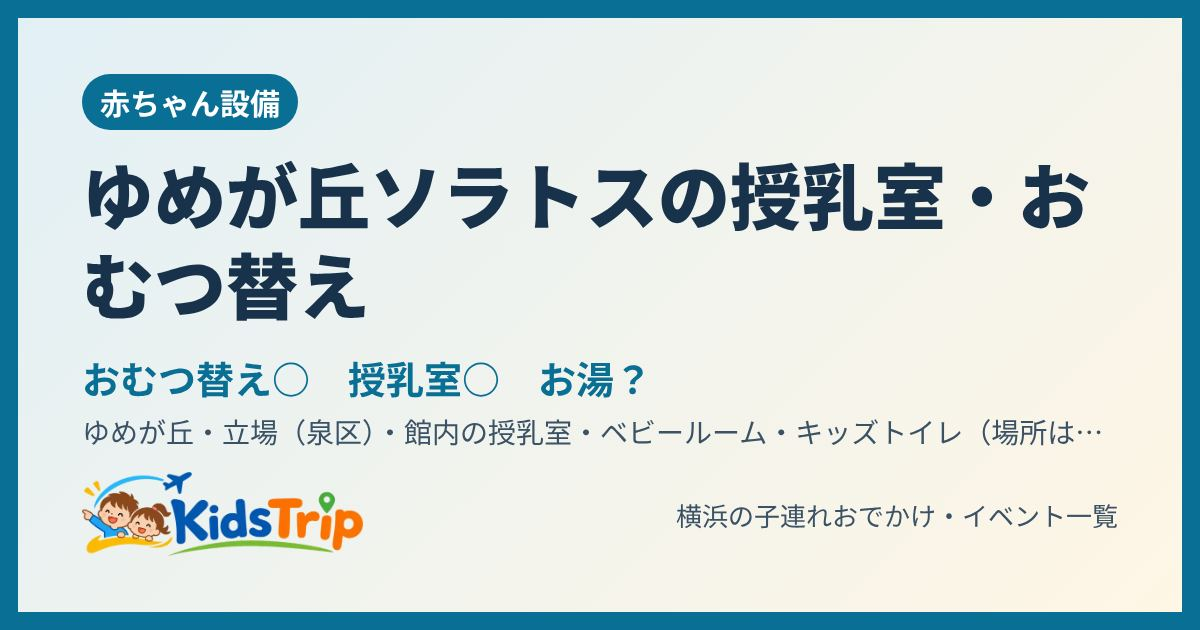
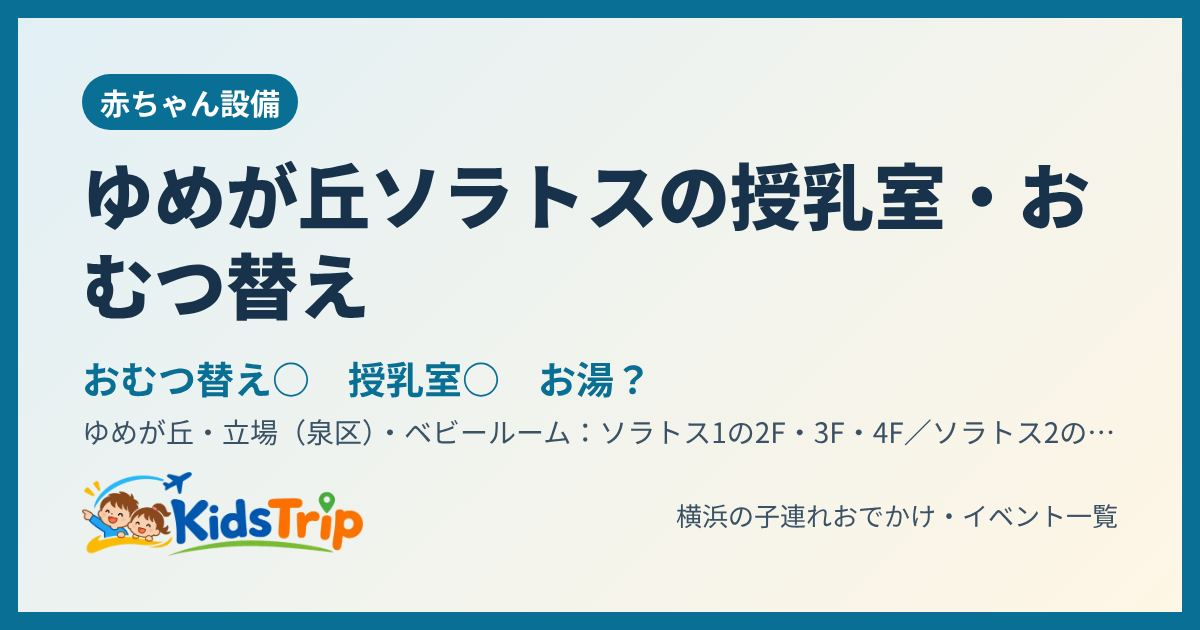
たまプラーザテラス（東急百貨店3Fベビー休憩室・電子レンジ）・ゆめが丘ソラトス（各棟のベビールーム）の授乳室を、いこーよから公式に差しかえ
Claude-Session: https://claude.ai/code/session_014AtJ2fHfJAqHs7WQwJHXLv

Changed region(s): [[0.3392, 0.6635, 0.925, 0.7238]]

diff --git a/spot/zvm9bi/index.html b/spot/zvm9bi/index.html
@@ -2,15 +2,14 @@
 <html lang="ja">
 <head>
 <meta charset="utf-8">
-<meta name="robots" content="noindex">
 <meta name="viewport" content="width=device-width, initial-scale=1">
-<title>たまプラーザ テラスの授乳室は何階？おむつ替え・お湯｜KidsTrip</title>
-<meta name="description" content="たまプラーザ テラス（たまプラーザ）の授乳室・おむつ替えの場所：ベビーテラス（おむつ替え・授乳）／1F プティマイン前に3歳まで向けのプレイスペース。おむつ替え・授乳室あり。">
+<title>たまプラーザ テラスの授乳室は何階？おむつ替え・お湯・電子レンジ｜KidsTrip</title>
+<meta name="description" content="たまプラーザ テラス（たまプラーザ）の授乳室・おむつ替えの場所：東急百貨店たまプラーザ店 3F ベビー休憩室（おむつ交換台・個室授乳室・調乳シンク・電子レンジ・身長計）。おむつ替え・授乳室・調乳のお湯・離乳食のレンジあり。">
 <link rel="canonical" href="https://kidstrip.jp/spot/zvm9bi/">
 <meta property="og:type" content="article">
 <meta property="og:site_name" content="KidsTrip">
-<meta property="og:title" content="たまプラーザ テラスの授乳室は何階？おむつ替え・お湯｜KidsTrip">
-<meta property="og:description" content="たまプラーザ テラス（たまプラーザ）の授乳室・おむつ替えの場所：ベビーテラス（おむつ替え・授乳）／1F プティマイン前に3歳まで向けのプレイスペース。おむつ替え・授乳室あり。">
+<meta property="og:title" content="たまプラーザ テラスの授乳室は何階？おむつ替え・お湯・電子レンジ｜KidsTrip">
+<meta property="og:description" content="たまプラーザ テラス（たまプラーザ）の授乳室・おむつ替えの場所：東急百貨店たまプラーザ店 3F ベビー休憩室（おむつ交換台・個室授乳室・調乳シンク・電子レンジ・身長計）。おむつ替え・授乳室・調乳のお湯・離乳食のレンジあり。">
 <meta property="og:url" content="https://kidstrip.jp/spot/zvm9bi/">
 <meta property="og:image" content="https://kidstrip.jp/og/spot-zvm9bi.jpg">
 <meta property="og:image:width" content="1200">
@@ -20,7 +19,7 @@
 <link rel="icon" href="../../img/favicon.png">
 <link rel="apple-touch-icon" href="../../img/apple-touch-icon.png">
 <script type="application/ld+json">{"@context": "https://schema.org", "@type": "BreadcrumbList", "itemListElement": [{"@type": "ListItem", "position": 1, "name": "トップ", "item": "https://kidstrip.jp/"}, {"@type": "ListItem", "position": 2, "name": "ごはん・おむつ", "item": "https://kidstrip.jp/#foodall"}, {"@type": "ListItem", "position": 3, "name": "たまプラーザ テラス"}]}</script>
-<script type="application/ld+json">{"@context": "https://schema.org", "@type": "Place", "name": "たまプラーザ テラス", "description": "たまプラーザ テラス（たまプラーザ）の授乳室・おむつ替えの場所：ベビーテラス（おむつ替え・授乳）／1F プティマイン前に3歳まで向けのプレイスペース。おむつ替え・授乳室あり。", "url": "https://kidstrip.jp/spot/zvm9bi/", "image": ["https://kidstrip.jp/og/spot-zvm9bi.jpg"], "address": {"@type": "PostalAddress", "addressLocality": "横浜市", "addressRegion": "神奈川県", "addressCountry": "JP"}, "amenityFeature": [{"@type": "LocationFeatureSpecification", "name": "おむつ替え", "value": true}, {"@type": "LocationFeatureSpecification", "name": "授乳室", "value": true}], "publicAccess": true, "sameAs": "https://iko-yo.net/facilities/6546", "hasMap": "https://www.google.com/maps/search/?api=1&query=たまプラーザ テラス"}</script>
+<script type="application/ld+json">{"@context": "https://schema.org", "@type": "Place", "name": "たまプラーザ テラス", "description": "たまプラーザ テラス（たまプラーザ）の授乳室・おむつ替えの場所：東急百貨店たまプラーザ店 3F ベビー休憩室（おむつ交換台・個室授乳室・調乳シンク・電子レンジ・身長計）。おむつ替え・授乳室・調乳のお湯・離乳食のレンジあり。", "url": "https://kidstrip.jp/spot/zvm9bi/", "image": ["https://kidstrip.jp/og/spot-zvm9bi.jpg"], "address": {"@type": "PostalAddress", "addressLocality": "横浜市", "addressRegion": "神奈川県", "addressCountry": "JP"}, "amenityFeature": [{"@type": "LocationFeatureSpecification", "name": "おむつ替え", "value": true}, {"@type": "LocationFeatureSpecification", "name": "授乳室", "value": true}, {"@type": "LocationFeatureSpecification", "name": "調乳のお湯", "value": true}, {"@type": "LocationFeatureSpecification", "name": "離乳食用の電子レンジ", "value": true}], "publicAccess": true, "sameAs": "https://www.tokyu-dept.co.jp/tama-plaza/service/index.html", "hasMap": "https://www.google.com/maps/search/?api=1&query=たまプラーザ テラス"}</script>
 <style>
 :root{--paper:#f8fafc;--card:#fff;--ink:#18222e;--muted:#5b6875;--line:#dde3e9;--accent:#0a6f95;--accent-soft:#e2f0f6;--ok:#2e7d4f;--bad:#b3372b}
 *{box-sizing:border-box}body{margin:0;background:var(--paper);color:var(--ink);font-family:"Zen Kaku Gothic New","Hiragino Kaku Gothic ProN","Yu Gothic","Meiryo",sans-serif;line-height:1.7}
@@ -47,13 +46,13 @@ footer{margin:28px 0 8px;font-size:12px;color:var(--muted)}
 <p class="crumb"><a href="/">トップ</a> ＞ <a href="/#foodall">ごはん・おむつ</a> ＞ たまプラーザ テラス</p>
 <article class="card">
 <h1>たまプラーザ テラスの授乳室・おむつ替え・お湯</h1>
-<table class="bm"><thead><tr><th>場所</th><th>おむつ替え</th><th>授乳室</th><th>お湯</th><th>レンジ</th></tr></thead><tbody><tr><th>たまプラーザ テラス</th><td class="y">○</td><td class="y">○</td><td class="u">？</td><td class="u">？</td></tr></tbody></table>
+<table class="bm"><thead><tr><th>場所</th><th>おむつ替え</th><th>授乳室</th><th>お湯</th><th>レンジ</th></tr></thead><tbody><tr><th>たまプラーザ テラス</th><td class="y">○</td><td class="y">○</td><td class="y">○</td><td class="y">○</td></tr></tbody></table>
 <p class="legend">○ あり　× なし　？ 調べた範囲で確認できず</p>
-<table class="info"><tr><th>場所</th><td>ベビーテラス（おむつ替え・授乳）／1F プティマイン前に3歳まで向けのプレイスペース</td></tr><tr><th>エリア</th><td>たまプラーザ</td></tr></table>
-<ul class="chips"><li>キッズスペース（3歳まで）</li></ul>
-<p class="sum">広いベビーテラスでおむつ替えと授乳ができる。お湯があるかは掲載なし。1Fのプレイスペースはマットとおもちゃのある小さなスペース（いこーよの口コミ・2025年5月）。駅直結。</p>
-<p class="small">出典：いこーよ（施設紹介・口コミ）</p>
-<div class="btns"><a class="btn main" data-act="official" href="https://iko-yo.net/facilities/6546" target="_blank" rel="noopener">公式ページで確認</a>
+<table class="info"><tr><th>場所</th><td>東急百貨店たまプラーザ店 3F ベビー休憩室（おむつ交換台・個室授乳室・調乳シンク・電子レンジ・身長計）</td></tr><tr><th>エリア</th><td>たまプラーザ</td></tr><tr><th>電子レンジ</th><td>東急百貨店たまプラーザ店 3Fベビー休憩室（東急百貨店 公式・2026年11月20日確認）</td></tr></table>
+<ul class="chips"><li>電子レンジ（3F ベビー休憩室）</li><li>無料ベビーカー貸出（B1 駅側エスカレーター下／3F 東エレベーター横・生後4か月〜48か月未満・身長100cmまで・100円玉が必要で返却時に戻る）</li><li>子供用トイレ（5F）</li></ul>
+<p class="sum">館内の東急百貨店たまプラーザ店3Fのベビー休憩室に、おむつ交換台・個室授乳室・調乳シンク・電子レンジ・洗面台・身長計がある。5Fにも授乳室・おむつ替えベッド・子供用トイレのあるベビー休憩室。男性の利用は公式ページに記載なし。駅直結。</p>
+<p class="small">出典：東急百貨店たまプラーザ店 公式（サービスガイド・フロアマップ・2026年11月20日確認）</p>
+<div class="btns"><a class="btn main" data-act="official" href="https://www.tokyu-dept.co.jp/tama-plaza/service/index.html" target="_blank" rel="noopener">公式ページで確認</a>
 <a class="btn" href="https://www.google.com/maps/search/?api=1&amp;query=たまプラーザ テラス" target="_blank" rel="noopener">地図で見る</a>
 <button type="button" class="btn" data-share="1">🔗 リンクを送る・コピー</button></div>
 </article>

diff --git a/spot/1m4z3z8/index.html b/spot/1m4z3z8/index.html
@@ -3,13 +3,13 @@
 <head>
 <meta charset="utf-8">
 <meta name="viewport" content="width=device-width, initial-scale=1">
-<title>ゆめが丘ソラトスの授乳室・おむつ替え・お湯｜KidsTrip</title>
-<meta name="description" content="ゆめが丘ソラトス（ゆめが丘・立場（泉区））の授乳室・おむつ替えの場所：館内の授乳室・ベビールーム・キッズトイレ（場所は館内マップで確認）。おむつ替え・授乳室あり。">
+<title>ゆめが丘ソラトスの授乳室は何階？おむつ替え・お湯｜KidsTrip</title>
+<meta name="description" content="ゆめが丘ソラトス（ゆめが丘・立場（泉区））の授乳室・おむつ替えの場所：ベビールーム：ソラトス1の2F・3F・4F／ソラトス2の2F・3F／ソラトス3の2F・3F（各階のトイレにキッズトイレ・ベビー休憩室・授乳室）。おむつ替え・授乳室あり。">
 <link rel="canonical" href="https://kidstrip.jp/spot/1m4z3z8/">
 <meta property="og:type" content="article">
 <meta property="og:site_name" content="KidsTrip">
-<meta property="og:title" content="ゆめが丘ソラトスの授乳室・おむつ替え・お湯｜KidsTrip">
-<meta property="og:description" content="ゆめが丘ソラトス（ゆめが丘・立場（泉区））の授乳室・おむつ替えの場所：館内の授乳室・ベビールーム・キッズトイレ（場所は館内マップで確認）。おむつ替え・授乳室あり。">
+<meta property="og:title" content="ゆめが丘ソラトスの授乳室は何階？おむつ替え・お湯｜KidsTrip">
+<meta property="og:description" content="ゆめが丘ソラトス（ゆめが丘・立場（泉区））の授乳室・おむつ替えの場所：ベビールーム：ソラトス1の2F・3F・4F／ソラトス2の2F・3F／ソラトス3の2F・3F（各階のトイレにキッズトイレ・ベビー休憩室・授乳室）。おむつ替え・授乳室あり。">
 <meta property="og:url" content="https://kidstrip.jp/spot/1m4z3z8/">
 <meta property="og:image" content="https://kidstrip.jp/og/spot-1m4z3z8.jpg">
 <meta property="og:image:width" content="1200">
@@ -19,7 +19,7 @@
 <link rel="icon" href="../../img/favicon.png">
 <link rel="apple-touch-icon" href="../../img/apple-touch-icon.png">
 <script type="application/ld+json">{"@context": "https://schema.org", "@type": "BreadcrumbList", "itemListElement": [{"@type": "ListItem", "position": 1, "name": "トップ", "item": "https://kidstrip.jp/"}, {"@type": "ListItem", "position": 2, "name": "ごはん・おむつ", "item": "https://kidstrip.jp/#foodall"}, {"@type": "ListItem", "position": 3, "name": "ゆめが丘ソラトス"}]}</script>
-<script type="application/ld+json">{"@context": "https://schema.org", "@type": "Place", "name": "ゆめが丘ソラトス", "description": "ゆめが丘ソラトス（ゆめが丘・立場（泉区））の授乳室・おむつ替えの場所：館内の授乳室・ベビールーム・キッズトイレ（場所は館内マップで確認）。おむつ替え・授乳室あり。", "url": "https://kidstrip.jp/spot/1m4z3z8/", "image": ["https://kidstrip.jp/og/spot-1m4z3z8.jpg"], "address": {"@type": "PostalAddress", "addressLocality": "横浜市", "addressRegion": "神奈川県", "addressCountry": "JP"}, "amenityFeature": [{"@type": "LocationFeatureSpecification", "name": "おむつ替え", "value": true}, {"@type": "LocationFeatureSpecification", "name": "授乳室", "value": true}], "publicAccess": true, "sameAs": "https://iko-yo.net/facilities/181874", "hasMap": "https://www.google.com/maps/search/?api=1&query=ゆめが丘ソラトス"}</script>
+<script type="application/ld+json">{"@context": "https://schema.org", "@type": "Place", "name": "ゆめが丘ソラトス", "description": "ゆめが丘ソラトス（ゆめが丘・立場（泉区））の授乳室・おむつ替えの場所：ベビールーム：ソラトス1の2F・3F・4F／ソラトス2の2F・3F／ソラトス3の2F・3F（各階のトイレにキッズトイレ・ベビー休憩室・授乳室）。おむつ替え・授乳室あり。", "url": "https://kidstrip.jp/spot/1m4z3z8/", "image": ["https://kidstrip.jp/og/spot-1m4z3z8.jpg"], "address": {"@type": "PostalAddress", "addressLocality": "横浜市", "addressRegion": "神奈川県", "addressCountry": "JP"}, "amenityFeature": [{"@type": "LocationFeatureSpecification", "name": "おむつ替え", "value": true}, {"@type": "LocationFeatureSpecification", "name": "授乳室", "value": true}], "publicAccess": true, "sameAs": "https://www.yumegaoka-soratos.com/facility/", "hasMap": "https://www.google.com/maps/search/?api=1&query=ゆめが丘ソラトス"}</script>
 <style>
 :root{--paper:#f8fafc;--card:#fff;--ink:#18222e;--muted:#5b6875;--line:#dde3e9;--accent:#0a6f95;--accent-soft:#e2f0f6;--ok:#2e7d4f;--bad:#b3372b}
 *{box-sizing:border-box}body{margin:0;background:var(--paper);color:var(--ink);font-family:"Zen Kaku Gothic New","Hiragino Kaku Gothic ProN","Yu Gothic","Meiryo",sans-serif;line-height:1.7}
@@ -48,11 +48,11 @@ footer{margin:28px 0 8px;font-size:12px;color:var(--muted)}
 <h1>ゆめが丘ソラトス（ゆめが丘駅直結）の授乳室・おむつ替え・お湯</h1>
 <table class="bm"><thead><tr><th>場所</th><th>おむつ替え</th><th>授乳室</th><th>お湯</th><th>レンジ</th></tr></thead><tbody><tr><th>ゆめが丘ソラトス</th><td class="y">○</td><td class="y">○</td><td class="u">？</td><td class="u">？</td></tr></tbody></table>
 <p class="legend">○ あり　× なし　？ 調べた範囲で確認できず</p>
-<table class="info"><tr><th>場所</th><td>館内の授乳室・ベビールーム・キッズトイレ（場所は館内マップで確認）</td></tr><tr><th>エリア</th><td>ゆめが丘・立場（泉区）</td></tr></table>
-<ul class="chips"><li>キッズトイレ</li></ul>
-<p class="sum">授乳室・ベビールーム・キッズトイレあり。お湯があるかは掲載なし。屋上に無料の遊具、3Fにキッズシネマ。</p>
-<p class="small">出典：いこーよ</p>
-<div class="btns"><a class="btn main" data-act="official" href="https://iko-yo.net/facilities/181874" target="_blank" rel="noopener">公式ページで確認</a>
+<table class="info"><tr><th>場所</th><td>ベビールーム：ソラトス1の2F・3F・4F／ソラトス2の2F・3F／ソラトス3の2F・3F（各階のトイレにキッズトイレ・ベビー休憩室・授乳室）</td></tr><tr><th>エリア</th><td>ゆめが丘・立場（泉区）</td></tr></table>
+<ul class="chips"><li>キッズトイレ（各階のトイレ）</li><li>屋上の無料の遊具広場「そうにゃんぱーく そらの広場にゃん」</li></ul>
+<p class="sum">3つの棟の2F・3F（ソラトス1は4Fも）にベビールームがあり、各階のトイレにキッズトイレ・ベビー休憩室・授乳室がそろっている（相鉄グループの発表）。お湯・電子レンジ・男性の利用は公式ページに記載なし。3Fにキッズシネマ（109シネマズ）。</p>
+<p class="small">出典：ゆめが丘ソラトス 公式（施設・サービス）・相鉄グループ 公式（開業の発表・2026年11月20日確認）</p>
+<div class="btns"><a class="btn main" data-act="official" href="https://www.yumegaoka-soratos.com/facility/" target="_blank" rel="noopener">公式ページで確認</a>
 <a class="btn" href="https://www.google.com/maps/search/?api=1&amp;query=ゆめが丘ソラトス" target="_blank" rel="noopener">地図で見る</a>
 <button type="button" class="btn" data-share="1">🔗 リンクを送る・コピー</button></div>
 </article>

diff --git a/js/data.js b/js/data.js
@@ -682,8 +682,8 @@ const BABY = {
       note:"おむつ交換台は女性トイレだけ（2F1台・3F3台・4F1台）なので、パパひとりのときは注意。調乳用のお湯あり。", url:"https://www.welcome.city.yokohama.jp/img_data/774_spot_pdf_1.pdf", src:"横浜市観光情報サイト（バリアフリー情報）" }
   ],
   "tamaplaza": [
-    { n:"たまプラーザ テラス", where:"ベビーテラス（おむつ替え・授乳）／1F プティマイン前に3歳まで向けのプレイスペース", d:true, f:true, w:null, ex:["キッズスペース（3歳まで）"],
-      note:"広いベビーテラスでおむつ替えと授乳ができる。お湯があるかは掲載なし。1Fのプレイスペースはマットとおもちゃのある小さなスペース（いこーよの口コミ・2025年5月）。駅直結。", url:"https://iko-yo.net/facilities/6546", src:"いこーよ（施設紹介・口コミ）" }
+    { n:"たまプラーザ テラス", where:"東急百貨店たまプラーザ店 3F ベビー休憩室（おむつ交換台・個室授乳室・調乳シンク・電子レンジ・身長計）", d:true, f:true, w:true, mw:true, mwText:"東急百貨店たまプラーザ店 3Fベビー休憩室（東急百貨店 公式・2026年11月20日確認）", ex:["電子レンジ（3F ベビー休憩室）","無料ベビーカー貸出（B1 駅側エスカレーター下／3F 東エレベーター横・生後4か月〜48か月未満・身長100cmまで・100円玉が必要で返却時に戻る）","子供用トイレ（5F）"],
+      note:"館内の東急百貨店たまプラーザ店3Fのベビー休憩室に、おむつ交換台・個室授乳室・調乳シンク・電子レンジ・洗面台・身長計がある。5Fにも授乳室・おむつ替えベッド・子供用トイレのあるベビー休憩室。男性の利用は公式ページに記載なし。駅直結。", url:"https://www.tokyu-dept.co.jp/tama-plaza/service/index.html", src:"東急百貨店たまプラーザ店 公式（サービスガイド・フロアマップ・2026年11月20日確認）" }
   ],
   "kamiooka": [
     { n:"ミオカ・リスト館（上大岡駅前）", where:"おむつ替え：ミオカ 2F・3F・5Fの多目的トイレ／リスト館 B1・3F・4F・6Fの女性用トイレ、3F・6Fの男性用トイレ", d:true, f:null, w:null, ex:["ベビーカー貸出なし"],
@@ -692,8 +692,8 @@ const BABY = {
       note:"5Fの「みんなのベビールーム」は無料で、専用の授乳室・おむつ替えシート・ミルク用給湯器・飲み物の自販機がある。10Fの授乳室はベビーカーごと入れる。電子レンジ・男性の利用は公式ページに記載なし。", url:"https://www.keikyu-depart.com/kqdep/service/index.html", src:"京急百貨店 公式（サービスのご案内・2026年11月19日確認）" }
   ],
   "yumegaoka": [
-    { n:"ゆめが丘ソラトス（ゆめが丘駅直結）", where:"館内の授乳室・ベビールーム・キッズトイレ（場所は館内マップで確認）", d:true, f:true, w:null, ex:["キッズトイレ"],
-      note:"授乳室・ベビールーム・キッズトイレあり。お湯があるかは掲載なし。屋上に無料の遊具、3Fにキッズシネマ。", url:"https://iko-yo.net/facilities/181874", src:"いこーよ" },
+    { n:"ゆめが丘ソラトス（ゆめが丘駅直結）", where:"ベビールーム：ソラトス1の2F・3F・4F／ソラトス2の2F・3F／ソラトス3の2F・3F（各階のトイレにキッズトイレ・ベビー休憩室・授乳室）", d:true, f:true, w:null, ex:["キッズトイレ（各階のトイレ）","屋上の無料の遊具広場「そうにゃんぱーく そらの広場にゃん」"],
+      note:"3つの棟の2F・3F（ソラトス1は4Fも）にベビールームがあり、各階のトイレにキッズトイレ・ベビー休憩室・授乳室がそろっている（相鉄グループの発表）。お湯・電子レンジ・男性の利用は公式ページに記載なし。3Fにキッズシネマ（109シネマズ）。", url:"https://www.yumegaoka-soratos.com/facility/", src:"ゆめが丘ソラトス 公式（施設・サービス）・相鉄グループ 公式（開業の発表・2026年11月20日確認）" },
     { n:"市営地下鉄 立場駅のベビーケアスペース", where:"改札内・改札機の近く（個室）", d:true, f:true, w:false, ex:["始発〜17:00（ほかの時間は駅係員に声をかける）"],
       note:"授乳・おむつ替え・搾乳に使える個室。男性も使える。ソファ・スツール・コンセントあり。手続きは不要。", url:"https://www.city.yokohama.lg.jp/kotsu/sub/kosodate.html", src:"横浜市交通局（2026年7月）" }
   ],

diff --git a/index.html b/index.html
@@ -717,7 +717,7 @@ section[id], div[id="events"] { scroll-margin-top: 56px; }
   </footer>
 </div>
 
-<script src="js/data.js?v=abe66ee382" defer></script>
+<script src="js/data.js?v=b772f080dc" defer></script>
 <script src="js/app.js?v=2770fd00a7" defer></script>
 </body>
 </html>

diff --git a/tools/runs.md b/tools/runs.md
@@ -9,3 +9,4 @@
 | 2026-11-19 | 利用者との作業 | 午後〜22:05 | 数時間 | 授乳室・モールの追加、記録の見直し、市役所・花火大会など |
 | 2026-11-20 | 毎朝の更新 | 04:46〜05:20 | 34 | 期間表記・天気、終了3件を外す、近い25件を公式で確認、新規14件（ノースポートのクリスマス工作・レゴのサンタ・キュービックのサンタなど） |
 | 2026-11-20 | 利用者との作業 | 07:31〜08:05 | 34 | でんしゃであそぼう（大倉山）を公式から追加、未掲載モールの候補を更新 |
+| 2026-11-20 | 利用者との作業 | 08:00〜08:20 | 20 | たまプラーザテラス・ゆめが丘ソラトスの授乳室を公式に差しかえ（いこーよから） |
